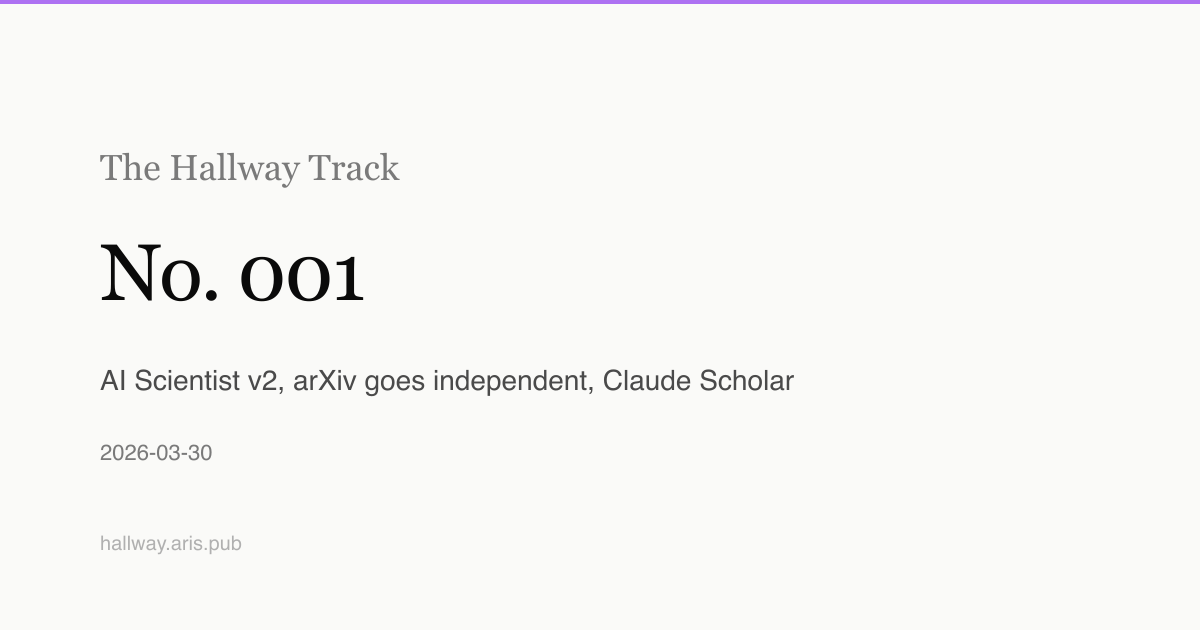
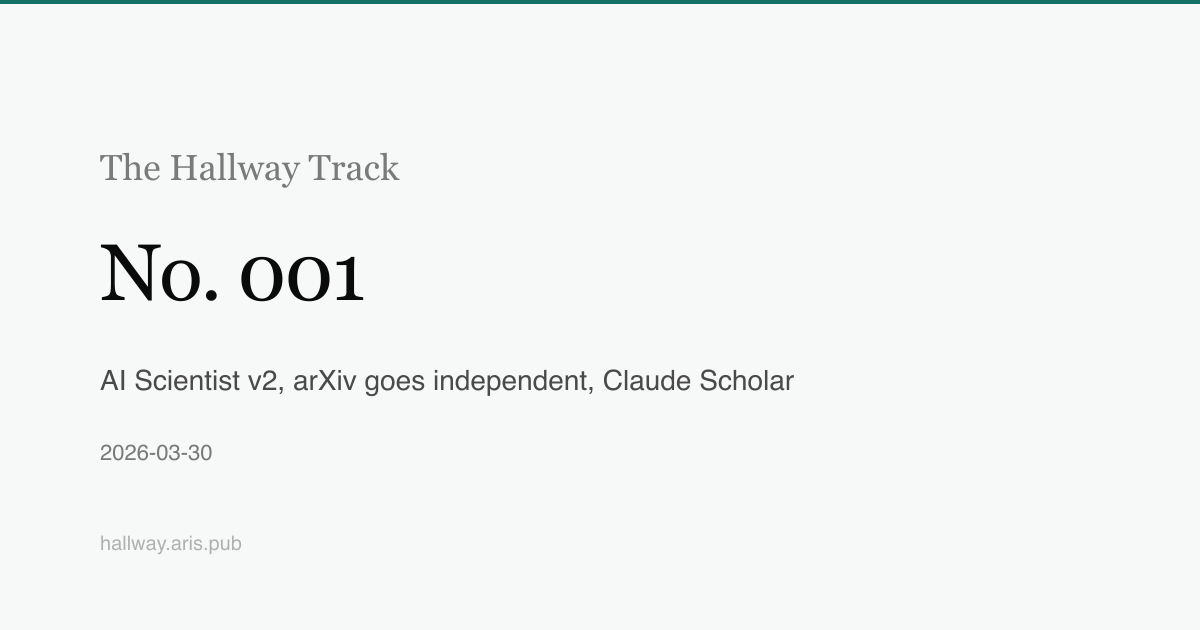
Hallway Track brand: BRAIID green accent, cool background
Distinct from aris.pub purple. Uses BRAIID green scale:
- Accent: #157067 (green-700), hover: #1FB5A2 (green-500)
- Dark mode links: #37CAB6 (green-400)
- Background: #f7f9f8 (cool green tint)
- Updated emails, og:images, theme-color to match

Changed region(s): [[0.0, 0.0, 1.0, 0.0302]]

diff --git a/scripts/gen-og-images.js b/scripts/gen-og-images.js
@@ -10,8 +10,8 @@ function makeSvg(number, title, date) {
     ? `<text x="100" y="390" font-family="sans-serif" font-size="28" fill="#4a4a4a">${title}</text>`
     : "";
   return `<svg xmlns="http://www.w3.org/2000/svg" width="1200" height="630" viewBox="0 0 1200 630">
-  <rect width="1200" height="630" fill="#fafaf8"/>
-  <rect x="0" y="0" width="1200" height="4" fill="#AD71F2"/>
+  <rect width="1200" height="630" fill="#f7f9f8"/>
+  <rect x="0" y="0" width="1200" height="4" fill="#157067"/>
   <text x="100" y="180" font-family="Georgia, Garamond, serif" font-size="36" fill="#7a7a7a">The Hallway Track</text>
   <text x="100" y="300" font-family="Georgia, Garamond, serif" font-size="80" font-weight="400" fill="#0a0a0a" letter-spacing="-2">No. ${number}</text>
   ${titleLine}
@@ -22,8 +22,8 @@ function makeSvg(number, title, date) {
 
 function makeDefaultSvg() {
   return `<svg xmlns="http://www.w3.org/2000/svg" width="1200" height="630" viewBox="0 0 1200 630">
-  <rect width="1200" height="630" fill="#fafaf8"/>
-  <rect x="0" y="0" width="1200" height="4" fill="#AD71F2"/>
+  <rect width="1200" height="630" fill="#f7f9f8"/>
+  <rect x="0" y="0" width="1200" height="4" fill="#157067"/>
   <text x="100" y="260" font-family="Georgia, Garamond, serif" font-size="64" font-weight="400" fill="#0a0a0a" letter-spacing="-1">The Hallway Track</text>
   <text x="100" y="340" font-family="sans-serif" font-size="28" fill="#7a7a7a">How AI is affecting the practice of science.</text>
   <text x="100" y="520" font-family="sans-serif" font-size="20" fill="#b0b0b0">hallway.aris.pub</text>

diff --git a/src/css/main.css b/src/css/main.css
@@ -9,12 +9,12 @@
     --text-primary: #0a0a0a;
     --text-secondary: #4a4a4a;
     --text-tertiary: #7a7a7a;
-    --bg-primary: #fafaf8;
+    --bg-primary: #f7f9f8;
     --bg-card: #ffffff;
-    --bg-subtle: #f5f5f2;
-    --border-light: #e8e8e4;
-    --accent: #AD71F2;
-    --accent-dark: #8B4DBF;
+    --bg-subtle: #f0f4f3;
+    --border-light: #e2e8e6;
+    --accent: #1FB5A2;
+    --accent-dark: #157067;
 
     --font-serif: 'Georgia', 'Garamond', 'Times New Roman', serif;
     --font-sans: 'Source Sans 3', -apple-system, BlinkMacSystemFont, 'Segoe UI', 'Helvetica Neue', Arial, sans-serif;
@@ -32,11 +32,11 @@
         --text-primary: #f0f0f0;
         --text-secondary: #b0b0b0;
         --text-tertiary: #808080;
-        --bg-primary: #0f0f0d;
-        --bg-card: #1a1a18;
-        --bg-subtle: #141412;
-        --border-light: #2a2a26;
-        --accent-dark: #AD71F2;
+        --bg-primary: #0d0f0e;
+        --bg-card: #181a19;
+        --bg-subtle: #121413;
+        --border-light: #262a28;
+        --accent-dark: #37CAB6;
     }
 }
 
@@ -44,11 +44,11 @@
     --text-primary: #f0f0f0;
     --text-secondary: #b0b0b0;
     --text-tertiary: #808080;
-    --bg-primary: #0f0f0d;
-    --bg-card: #1a1a18;
-    --bg-subtle: #141412;
-    --border-light: #2a2a26;
-    --accent-dark: #AD71F2;
+    --bg-primary: #0d0f0e;
+    --bg-card: #181a19;
+    --bg-subtle: #121413;
+    --border-light: #262a28;
+    --accent-dark: #37CAB6;
 }
 
 html {

diff --git a/netlify/functions/subscribe.js b/netlify/functions/subscribe.js
@@ -89,17 +89,17 @@ exports.handler = async (event) => {
 </head>
 <body style="font-family: -apple-system, BlinkMacSystemFont, 'Segoe UI', Roboto, sans-serif; line-height: 1.6; color: #0a0a0a; max-width: 600px; margin: 0 auto; padding: 20px;">
     <div style="text-align: center; margin-bottom: 30px;">
-        <h1 style="color: #AD71F2; margin: 0; font-weight: 400;">The Hallway Track</h1>
+        <h1 style="color: #157067; margin: 0; font-weight: 400;">The Hallway Track</h1>
     </div>
 
-    <div style="background: #fafaf8; border-radius: 12px; padding: 30px; margin-bottom: 30px; border-left: 4px solid #AD71F2;">
+    <div style="background: #f7f9f8; border-radius: 12px; padding: 30px; margin-bottom: 30px; border-left: 4px solid #157067;">
         <p style="font-size: 16px; margin: 0 0 20px 0;">You're subscribed to The Hallway Track, a weekly curated link roundup on how AI is affecting the practice of science.</p>
         <p style="font-size: 16px; margin: 0;">Each edition will arrive in your inbox on Mondays.</p>
     </div>
 
     <div style="text-align: center; color: #7a7a7a; font-size: 14px; border-top: 1px solid #e8e8e4; padding-top: 20px;">
         <p style="margin: 0; font-size: 12px;">
-            Part of <a href="https://aris.pub" style="color: #AD71F2;">The Aris Program</a>
+            Part of <a href="https://aris.pub" style="color: #157067;">The Aris Program</a>
         </p>
     </div>
 </body>

diff --git a/agent/broadcast.py b/agent/broadcast.py
@@ -83,18 +83,18 @@ def markdown_to_html(edition: dict) -> str:
 </head>
 <body style="font-family: -apple-system, BlinkMacSystemFont, 'Segoe UI', Roboto, sans-serif; line-height: 1.6; color: #0a0a0a; max-width: 600px; margin: 0 auto; padding: 20px;">
     <div style="text-align: center; margin-bottom: 30px;">
-        <h1 style="color: #AD71F2; margin: 0; font-weight: 400;">The Hallway Track</h1>
+        <h1 style="color: #157067; margin: 0; font-weight: 400;">The Hallway Track</h1>
         <p style="color: #7a7a7a; margin: 5px 0 0 0;">No. {edition["number"]}</p>
     </div>
 
-    <div style="background: #fafaf8; border-radius: 12px; padding: 30px; margin-bottom: 30px; border-left: 4px solid #AD71F2;">
+    <div style="background: #f7f9f8; border-radius: 12px; padding: 30px; margin-bottom: 30px; border-left: 4px solid #157067;">
         {content}
     </div>
 
     <div style="text-align: center; color: #7a7a7a; font-size: 14px; border-top: 1px solid #e8e8e4; padding-top: 20px;">
-        <p><a href="{edition["url"]}" style="color: #AD71F2;">Read online</a></p>
+        <p><a href="{edition["url"]}" style="color: #157067;">Read online</a></p>
         <p style="margin-top: 15px; font-size: 12px;">
-            Part of <a href="https://aris.pub" style="color: #AD71F2;">The Aris Program</a>
+            Part of <a href="https://aris.pub" style="color: #157067;">The Aris Program</a>
         </p>
         <p style="margin-top: 10px; font-size: 11px;">
             <a href="{{{{{{RESEND_UNSUBSCRIBE_URL}}}}}}" style="color: #7a7a7a;">Unsubscribe</a>
